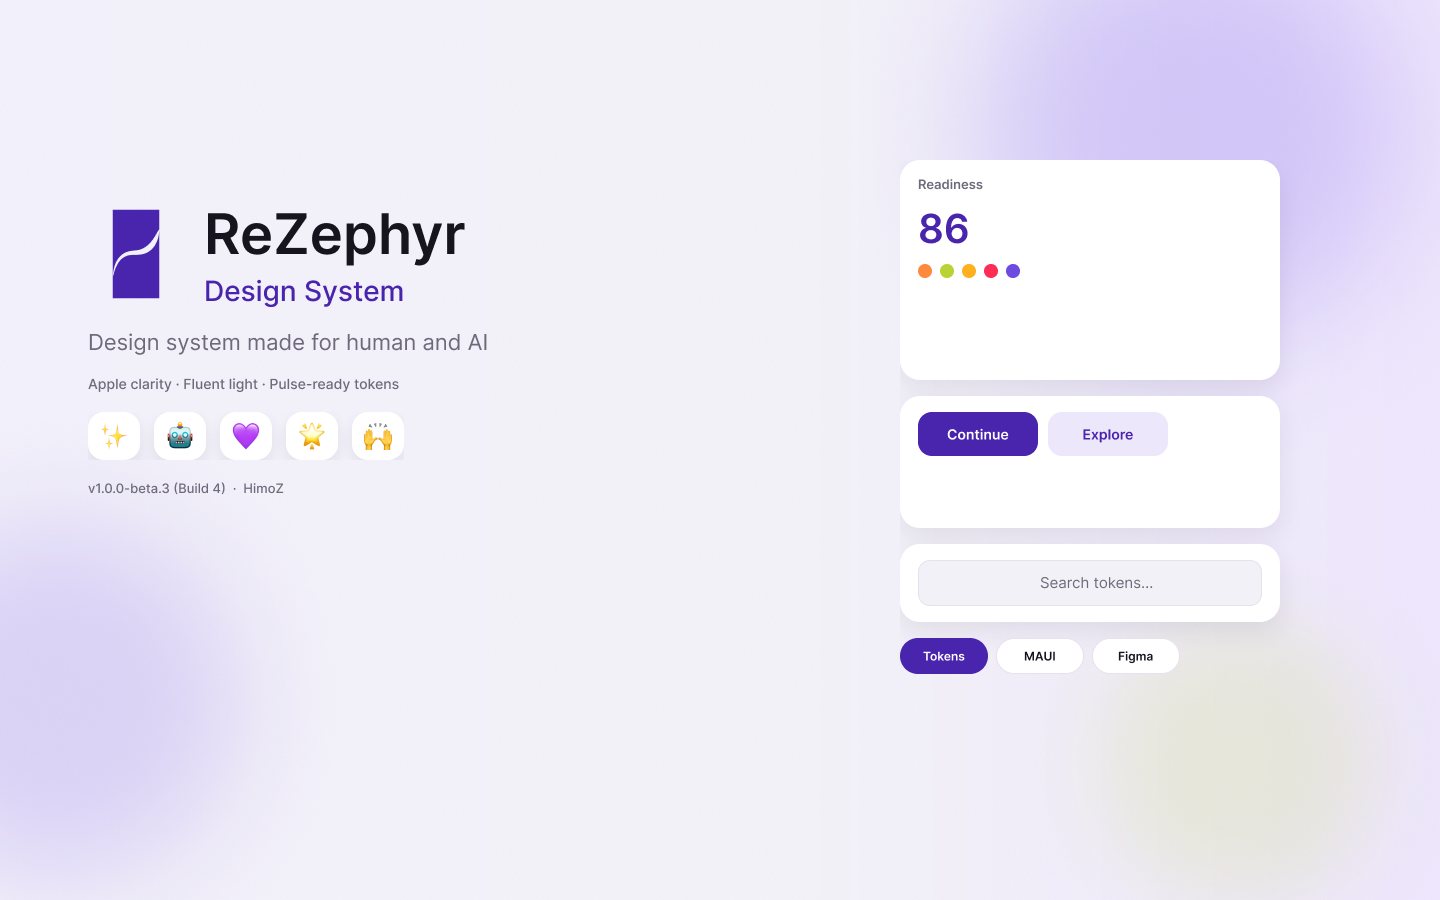
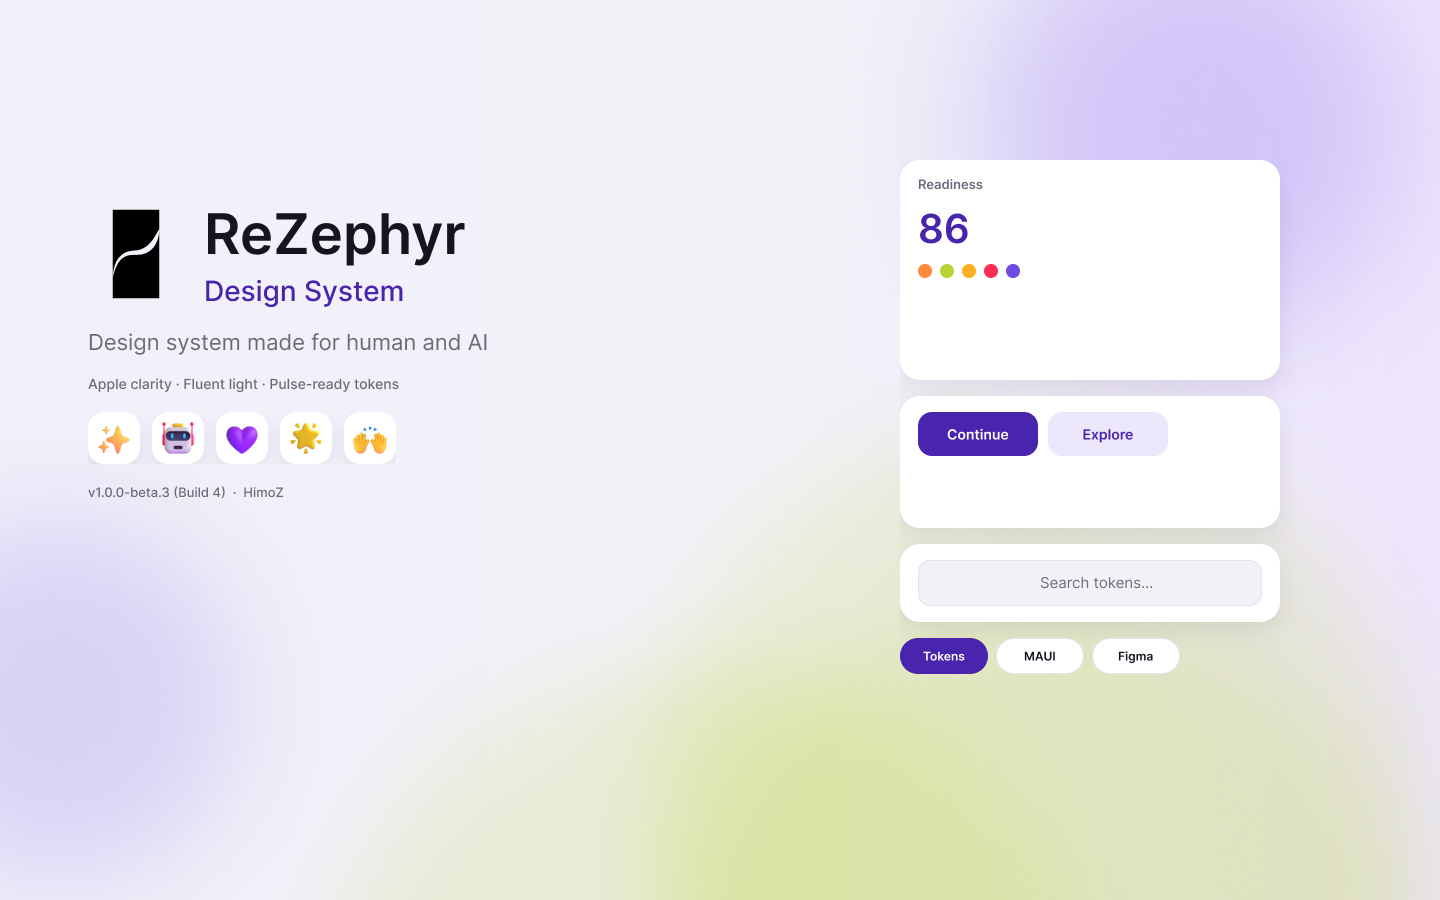
Use official Microsoft Fluent 3D emoji on the cover.
Replace Apple system emoji fonts with fluentui-emoji assets and refresh the cover export.

diff --git a/platforms/maui/ReZephyr.Maui/Resources/Styles/ReZephyrColors.xaml b/platforms/maui/ReZephyr.Maui/Resources/Styles/ReZephyrColors.xaml
@@ -3,7 +3,7 @@
 <!--
   ReZephyr Design System — color & metric tokens
   Version: v1.0.0-beta.3 (Build 4)
-  Independent of Warpbeat. Resource keys use ReZephyr* prefix (not Pulse*).
+  Resource keys use the ReZephyr prefix.
 -->
 <ResourceDictionary
     x:Class="ReZephyr.Maui.Resources.Styles.ReZephyrColors"

diff --git a/platforms/maui/ReZephyr.Maui/Tokens/ReZephyrTokens.cs b/platforms/maui/ReZephyr.Maui/Tokens/ReZephyrTokens.cs
@@ -2,7 +2,7 @@ namespace ReZephyr.Maui.Tokens;
 
 /// <summary>
 /// ReZephyr Design System numeric tokens (C#).
-/// Version: v1.0.0-beta.3 (Build 4). Mirrors tokens/tokens.json — no Warpbeat dependency.
+/// Version: v1.0.0-beta.3 (Build 4). Mirrors tokens/tokens.json.
 /// </summary>
 public static class ReZephyrTokens
 {

diff --git a/README.md b/README.md
@@ -1,6 +1,6 @@
 # ReZephyr
 
-Tokenized design system for Warpbeat **Pulse** (and reusable Apple HIG + Fluent 2 products).
+Tokenized design system — Apple HIG clarity with Fluent light, depth, and motion.
 
 **Version:** v1.0.0-beta.3 (Build 4)  
 **GitHub:** https://github.com/himoN7/rezephyr  
@@ -12,20 +12,13 @@ Tokenized design system for Warpbeat **Pulse** (and reusable Apple HIG + Fluent 
 
 Logo: [`brand/ReZephyr-128.svg`](./brand/ReZephyr-128.svg) · Cover assets: [`brand/`](./brand/)
 
-## Naming
+## MAUI
 
-- **Pulse** — Warpbeat in-app theme name (vs Classic).
-- **ReZephyr** — design-system / Figma library / docs / **MAUI package** name.
-
-## MAUI (any app)
-
-Standalone tokenized library: [`platforms/maui/`](./platforms/maui/) → **`ReZephyr.Maui`**
+Tokenized library: [`platforms/maui/`](./platforms/maui/) → **`ReZephyr.Maui`**
 
 ```csharp
-ReZephyrTheme.Apply(this); // keys are ReZephyr*, not Pulse*
+ReZephyrTheme.Apply(this);
 ```
-
-No Warpbeat reference required.
 
 ## Simulated platform tests
 
@@ -38,8 +31,8 @@ npm run test:maui
 
 | File | Role |
 |------|------|
-| [design.md](./design.md) | Design bible — principles, tokens, components, Classic vs Pulse |
-| [AUDIT.md](./AUDIT.md) | Completeness audit (DS lead) |
+| [design.md](./design.md) | Design bible — principles, tokens, components |
+| [AUDIT.md](./AUDIT.md) | Completeness audit |
 | [tokens/tokens.json](./tokens/tokens.json) | Numeric source of truth |
 | [tokens/tokens.css](./tokens/tokens.css) | Web / preview CSS variables |
 | [inventory/components.json](./inventory/components.json) | Figma component inventory |
@@ -47,13 +40,6 @@ npm run test:maui
 | [mapping/](./mapping/) | MAUI · Web · iOS · Android maps |
 | [mapping/icons-emoji.md](./mapping/icons-emoji.md) | Icons vs expressive emoji |
 | [figma/FIGMA_GITHUB_SYNC.md](./figma/FIGMA_GITHUB_SYNC.md) | Tokens Studio ↔ GitHub automation |
-
-**Figma library:** https://www.figma.com/design/QPBlsyhp2HMSmNFvyovOmm
-
-## Naming
-
-- **Pulse** — in-app theme name (vs Classic).
-- **ReZephyr** — design-system / Figma library / docs name.
 
 ## Icons vs emoji
 
@@ -82,7 +68,7 @@ See [figma/FIGMA_GITHUB_SYNC.md](./figma/FIGMA_GITHUB_SYNC.md). Sync file: `figm
 }
 ```
 
-**MAUI** — use existing `Pulse*` keys in Warpbeat `PulseColors.xaml`. See `mapping/maui.md`.
+**MAUI** — see [`platforms/maui/README.md`](./platforms/maui/README.md) and [`mapping/maui.md`](./mapping/maui.md).
 
 ## Agents
 

diff --git a/mapping/maui.md b/mapping/maui.md
@@ -1,24 +1,13 @@
-# ReZephyr → .NET MAUI (standalone)
+# ReZephyr → .NET MAUI
 
 **Version:** v1.0.0-beta.3 (Build 4)
 
 ## Package
 
-**`ReZephyr.Maui`** lives at `platforms/maui/ReZephyr.Maui/` in https://github.com/himoN7/rezephyr.
+**`ReZephyr.Maui`** — `platforms/maui/ReZephyr.Maui/`
 
-- Design system name: **ReZephyr** (not Pulse, not Warpbeat)
 - Resource keys: **`ReZephyr*Light` / `ReZephyr*Dark`**
-- No dependency on Warpbeat
-
-Pulse remains Warpbeat’s in-app theme name. New / independent MAUI apps should consume **ReZephyr.Maui** only.
-
-## Apply
-
-```csharp
-using ReZephyr.Maui.Theme;
-
-ReZephyrTheme.Apply(Application.Current!);
-```
+- Apply with `ReZephyrTheme.Apply(application)`
 
 See `platforms/maui/README.md`.
 
@@ -37,7 +26,7 @@ See `platforms/maui/README.md`.
 | textSecondary | `ReZephyrTextSecondary` |
 | textTertiary | `ReZephyrTextTertiary` |
 | heart / warning / danger / info / success / lime | `ReZephyr{Name}` |
-| zoneRest…Peak | `ReZephyrZoneRest` … `ReZephyrZonePeak` (theme-stable) |
+| zoneRest…Peak | `ReZephyrZoneRest` … `ReZephyrZonePeak` |
 | petal* | `ReZephyrPetalActivity` … |
 
 ## Styles
@@ -59,7 +48,3 @@ var h = ReZephyrTokens.Control.ButtonPrimary; // 52
     Style="{StaticResource ReZephyrPrimaryButtonStyle}"
     Text="Continue" />
 ```
-
-## Warpbeat note
-
-Warpbeat may continue to expose `Pulse*` resources as a **product theme alias**. That is Warpbeat-specific. The portable design system API is **ReZephyr***.

diff --git a/platforms/maui/README.md b/platforms/maui/README.md
@@ -1,16 +1,14 @@
 # ReZephyr.Maui
 
-**ReZephyr Design System** for .NET MAUI — fully tokenized, usable in **any** MAUI app.
+**ReZephyr Design System** for .NET MAUI — fully tokenized for any MAUI app.
 
 **Version:** v1.0.0-beta.3 (Build 4)  
 **Package:** `ReZephyr.Maui`  
-**Keys:** `ReZephyr*` (not Pulse*, not Warpbeat-specific)
-
-Pulse remains Warpbeat’s **in-app theme name**. This library is the portable **ReZephyr** design system.
+**Resource keys:** `ReZephyr*`
 
 ## Install
 
-Project reference (from this repo):
+Project reference:
 
 ```xml
 <ProjectReference Include="..\path\to\rezephyr\platforms\maui\ReZephyr.Maui\ReZephyr.Maui.csproj" />
@@ -22,7 +20,7 @@ Or pack locally:
 dotnet pack platforms/maui/ReZephyr.Maui/ReZephyr.Maui.csproj -c Release
 ```
 
-## Apply in any MAUI app
+## Apply
 
 ```csharp
 using ReZephyr.Maui.Theme;
@@ -82,8 +80,4 @@ var h = ReZephyrTokens.Control.ButtonPrimary; // 52
 | `ReZephyrTokens` | C# numeric constants |
 | `ReZephyrTheme.Apply` | One-line registration |
 
-Icons: Fluent / platform system icons for detailed UI. Animated emoji only in expressive places — see repo `mapping/icons-emoji.md`.
-
-## Not Warpbeat
-
-This package does **not** reference Warpbeat. Warpbeat may keep a Pulse-named alias layer for its own theme switch; new MAUI apps should use **ReZephyr** keys only.
+Icons: Fluent / platform system icons for detailed UI. Animated emoji only in expressive places — see `mapping/icons-emoji.md`.

diff --git a/brand/fluent-emoji/README.md b/brand/fluent-emoji/README.md
@@ -1,0 +1,15 @@
+# Microsoft Fluent emoji (cover)
+
+**Version:** v1.0.0-beta.3 (Build 4)
+
+3D assets from the official [microsoft/fluentui-emoji](https://github.com/microsoft/fluentui-emoji) repo, used on the ReZephyr Figma cover (expressive brand surface).
+
+| File | Fluent asset |
+|------|----------------|
+| `sparkles.png` | Sparkles / 3D |
+| `robot.png` | Robot / 3D |
+| `purple-heart.png` | Purple heart / 3D |
+| `glowing-star.png` | Glowing star / 3D |
+| `raising-hands.png` | Raising hands / Default / 3D |
+
+These are **not** platform Apple/Google system emoji fonts — they are Microsoft Fluent 3D PNGs.

diff --git a/design.md b/design.md
@@ -3,7 +3,7 @@
 **Version:** v1.0.0-beta.3 (Build 4)  
 **Figma:** https://www.figma.com/design/QPBlsyhp2HMSmNFvyovOmm (HimoZ)  
 **Tokens:** `tokens/tokens.json` · `tokens/tokens.css`  
-**App theme name:** Pulse (Warpbeat). **Studio / library name:** ReZephyr.
+**Studio / library name:** ReZephyr.
 
 ---
 
